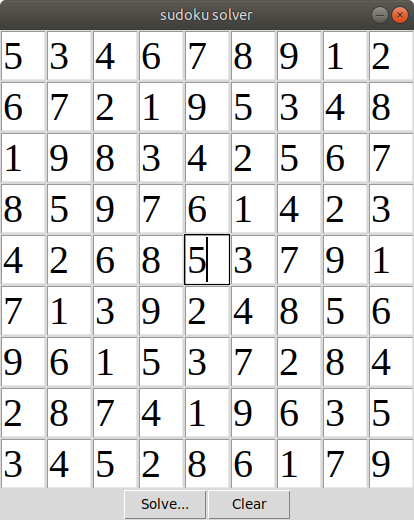
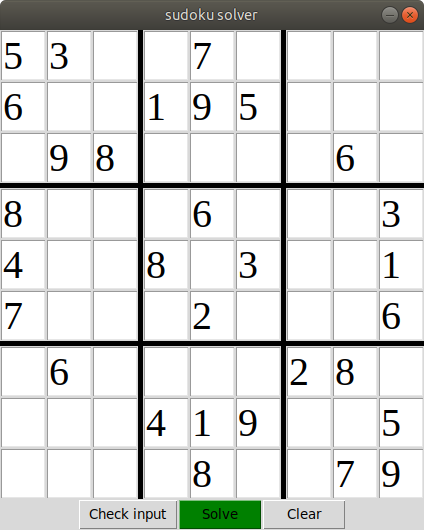
added: check input, messages, black rows and columns, new screenshot

Changed region(s): [[0.0, 0.0, 1.0, 1.0]]

diff --git a/main.py b/main.py
@@ -4,6 +4,7 @@
 #-------------------------------------------
 
 import tkinter as tk
+from tkinter import messagebox
 
 class Sudoku():
     def __init__(self, m, entries):
@@ -27,7 +28,7 @@ class Sudoku():
                 print()
         print()
 
-    def check_value(self, v, x, y):
+    def check_possibile_value(self, v, x, y):
         for i in range(0, 9):
             if(self.m[x][i] == v):
                 return False
@@ -45,12 +46,30 @@ class Sudoku():
 
         return True
 
+    def check_value(self, v, x, y):
+        for i in range(0, 9):
+            if(i!=y and self.m[x][i] == v):
+                return False
+
+        for i in range(0, 9):
+            if(i!=x and self.m[i][y] == v):
+                return False
+
+        # check the square
+        x0, y0 = (x//3)*3, (y//3)*3
+        for i in range(x0,x0 + 3):
+            for j in range(y0,y0 + 3):
+                if(i!=x and j!=y and self.m[i][j] == v):
+                    return False
+
+        return True
+
     def solve(self):
         for i in range(0,9):
             for j in range(0,9):
                 if(self.m[i][j] == 0):
                     for val in range(1, 10):
-                        if(self.check_value(val, i, j)):
+                        if(self.check_possibile_value(val, i, j)):
                             self.m[i][j] = val
                             if(self.solve()):
                                 return True
@@ -66,18 +85,29 @@ class Sudoku():
                 val = self.m[i][j]
                 entry = self.entries[i][j]
                 entry.delete(0, tk.END)
+                if(val == 0):
+                    val = ""
                 entry.insert(0, val)
 
     def solve_sudoku(self):
-        self.read_sudoku_from_window()
-        self.solve()
-        self.print_solution()
+        self.check_input()
+        if(self.valid_input):
+            is_solvable = self.solve()
+            if(is_solvable):
+                self.print_solution()
+            else:
+                messagebox.showwarning("Warning", "This input did not led to a solution. Try another input.")
 
     def read_sudoku_from_window(self):
         for i in range(0,9):
             for j in range(0,9):
                 entry = self.entries[i][j]
-                val = int(entry.get())
+                entry.config({"background" : "white"})
+                val = entry.get()
+                if(len(val) == 0):
+                    val = 0
+                else:
+                    val = int(val)
                 if(val < 1 or val > 9):
                     val = 0
                 self.m[i][j] = val
@@ -87,7 +117,32 @@ class Sudoku():
             for j in range(0,9):
                 entry = self.entries[i][j]
                 entry.delete(0, tk.END)
-                entry.insert(0, 0)
+                entry.insert(0, "")
+                entry.config({"background" : "white"})
+
+    def check_input_sudoku(self):
+        self.valid_input = True
+        for i in range(0,9):
+            for j in range(0,9):
+                if(self.m[i][j] != 0):
+                    valid = self.check_value(self.m[i][j], i, j)
+                    if(not valid):
+                        self.valid_input = False
+                        self.change_color_bg_entries(i, j)
+
+    def check_input(self, messageinfo=False):
+        self.read_sudoku_from_window()
+        self.check_input_sudoku()
+        if(not self.valid_input):
+            self.print_error_message()
+        if(messageinfo and self.valid_input):
+            messagebox.showinfo("Info", "This input does not contain errors.")
+
+    def print_error_message(self):
+        messagebox.showerror("Error", "This input contains errors.")
+
+    def change_color_bg_entries(self, x, y):
+        self.entries[x][y].config({"background" : "red"})
 
 def main():
 
@@ -107,11 +162,28 @@ def main():
     root.resizable(0,0)
 
     large_font = ('Times New Roman', 30)
+
     entries = []
+
+    # I've could done this better, maybe next time...
     for i in range(0,9):
         r_entries = []
+        # black row every 3 rows
+        if(i!=0 and i%3 == 0):
+            r_frame = tk.Frame(root, height=5, bg="black")
+            r_frame.pack(side="top", fill="x")
+
+        r_frame = tk.Frame(root)
+        r_frame.pack(side="top")
         for j in range(0,9):
-            entry = tk.Entry(root, width=2, font=large_font)
+            # black column every 3 columns
+            if(j!=0 and j%3 == 0):
+                c_frame = tk.Frame(r_frame, width=5, bg="black")
+                c_frame.pack(side="left", fill="y")
+
+            c_frame = tk.Frame(r_frame)
+            c_frame.pack(side="left")
+            entry = tk.Entry(c_frame, width=2, font=large_font)
             entry.grid(row=i, column=j)
             r_entries.append(entry)
         entries.append(r_entries)
@@ -119,9 +191,12 @@ def main():
     sudoku = Sudoku(m, entries)
 
     frame = tk.Frame(root)
-    frame.grid(row=i+1, columnspan=9)
+    frame.pack(side="top")
 
-    solve_button = tk.Button(frame, text="Solve...", width=7, command=lambda:sudoku.solve_sudoku())
+    check_button = tk.Button(frame, text="Check input", width=9, command=lambda:sudoku.check_input(messageinfo=True))
+    check_button.pack(side="left")
+
+    solve_button = tk.Button(frame, bg="green", text="Solve", width=7, command=lambda:sudoku.solve_sudoku())
     solve_button.pack(side="left")
 
     clear_button = tk.Button(frame, text="Clear", width=7, command=lambda:sudoku.clear_window())
